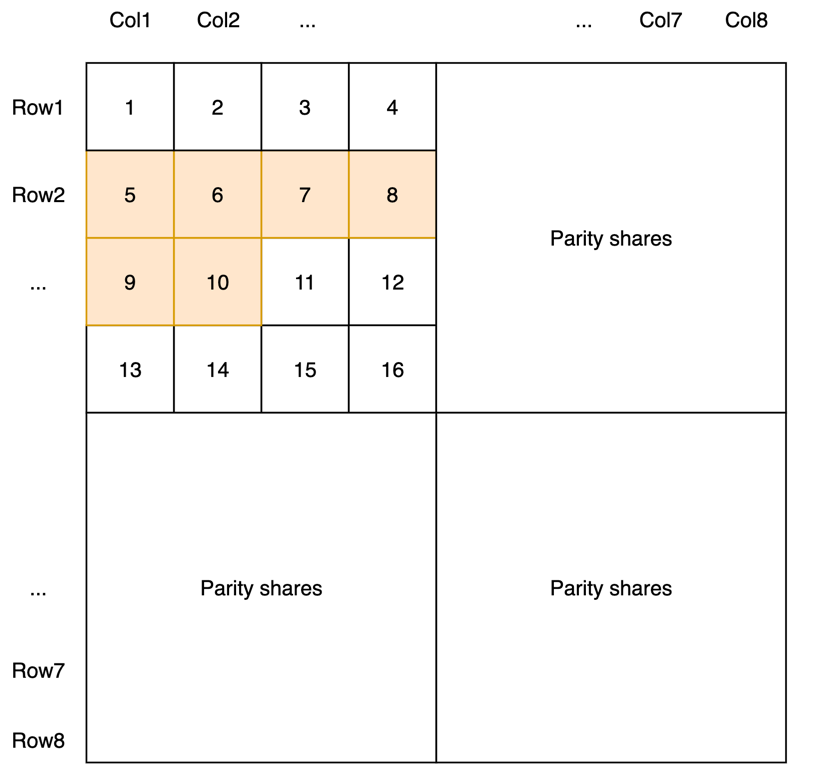
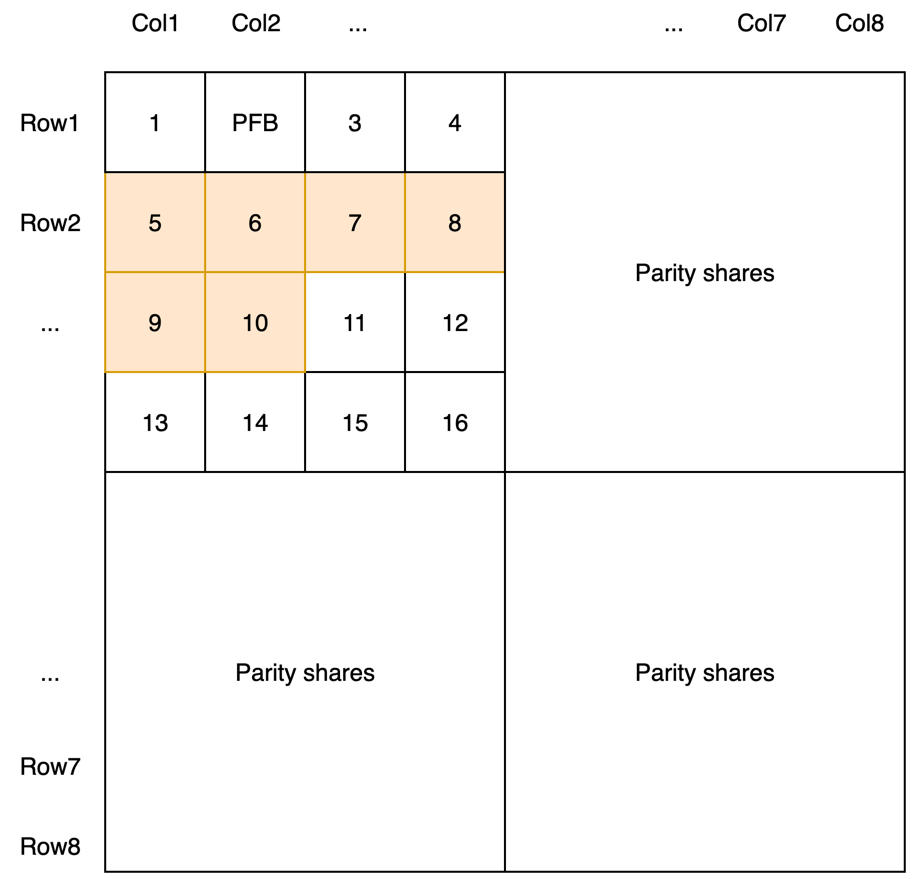
docs: better images

diff --git a/pkg/proof/README.md b/pkg/proof/README.md
@@ -15,7 +15,8 @@ a good understanding of [binary merkle proofs](https://celestiaorg.github.io/cel
 
 When creating a [PayForBlob](https://github.com/celestiaorg/celestia-app/blob/v1.0.0-rc2/proto/celestia/blob/v1/tx.proto#L16-L31) transaction,
 the blob data is separated into a set of [shares](https://celestiaorg.github.io/celestia-app/specs/shares.html).
-This set of shares is used to generate a *share commitment* which commits to the data contained in the PFB, i.e., the blob.
+This set of shares is used to generate a *share commitment* which commits to the data contained in the PFB,
+i.e., the blob.
 
 ### Share commitment generation 
 
@@ -57,10 +58,12 @@ Now that the *share commitment* is generated.
 The transaction gets broadcasted to the Celestia network to be picked up by validators.
 Once it's included in a block, the transaction, without the blob,
 is placed in the [transaction namespace](https://celestiaorg.github.io/celestia-app/specs/namespace.html#reserved-namespaces)
-and the blob is placed in the [namespace](https://github.com/celestiaorg/celestia-app/blob/72be251f044bcece659603248bc27711b2c039a0/proto/celestia/blob/v1/tx.proto#L22) specified in the PFB transaction.
+and the blob is placed in the [namespace](https://github.com/celestiaorg/celestia-app/blob/72be251f044bcece659603248bc27711b2c039a0/proto/celestia/blob/v1/tx.proto#L22)
+specified in the PFB transaction.
 
 If we use the same transaction from above,
-where the blob consists of six shares, an example Celestia square containing the blob can look like this (omitting the PFB transaction):
+where the blob consists of six shares,
+an example Celestia square containing the blob and the PFB transaction can look like this:
 
 <img src="img/extended_square.png" alt="celestia extended square containing the blob shares" width="500"/>
 
@@ -76,7 +79,8 @@ For example, if we want to compute the first row root:
 <img src="img/row_root_1.png" alt="row root one generation" width="500"/>
 
 We use the first row of shares to generate a namespace merkle root.
-The first four shares, i.e., the shares `[1, 4]` are part of the square data, and the last four are [parity shares](https://celestiaorg.github.io/celestia-app/specs/data_structures.html?highlight=extended#2d-reed-solomon-encoding-scheme). 
+The first four shares, i.e., the shares `[1, 4]` are part of the square data,
+and the last four are [parity shares](https://celestiaorg.github.io/celestia-app/specs/data_structures.html?highlight=extended#2d-reed-solomon-encoding-scheme). 
 
 Now if we take the second row, which contains four shares of the above blob `[5,8]`:
 
@@ -179,4 +183,10 @@ to creating a binary merkle inclusion proof to the *share commitment*:
 
 Now that we managed to prove that `SR1` and `SR2` were both committed to by the Celestia data root, and that the *share commitment* was generated using `SR1` and `SR2`, then, we would have proven that the *share commitment* was committed to by the Celestia data root, which means that **the blob data that generated the *share commitment* was included in a Celestia block**.
 
-[IMPORTANT] As of the current version, the generation and verification of share commitment proofs to data root is still not supported.
+[IMPORTANT] As of the current version,
+the generation and verification of share commitment proofs to data root is still not supported.
+
+#### Compact proofs
+
+More compact proofs can be generated but are out of the scope of this document.
+More details can be found in [ADR-011](https://github.com/celestiaorg/celestia-app/blob/main/docs/architecture/adr-011-optimistic-blob-size-independent-inclusion-proofs-and-pfb-fraud-proofs.md).
